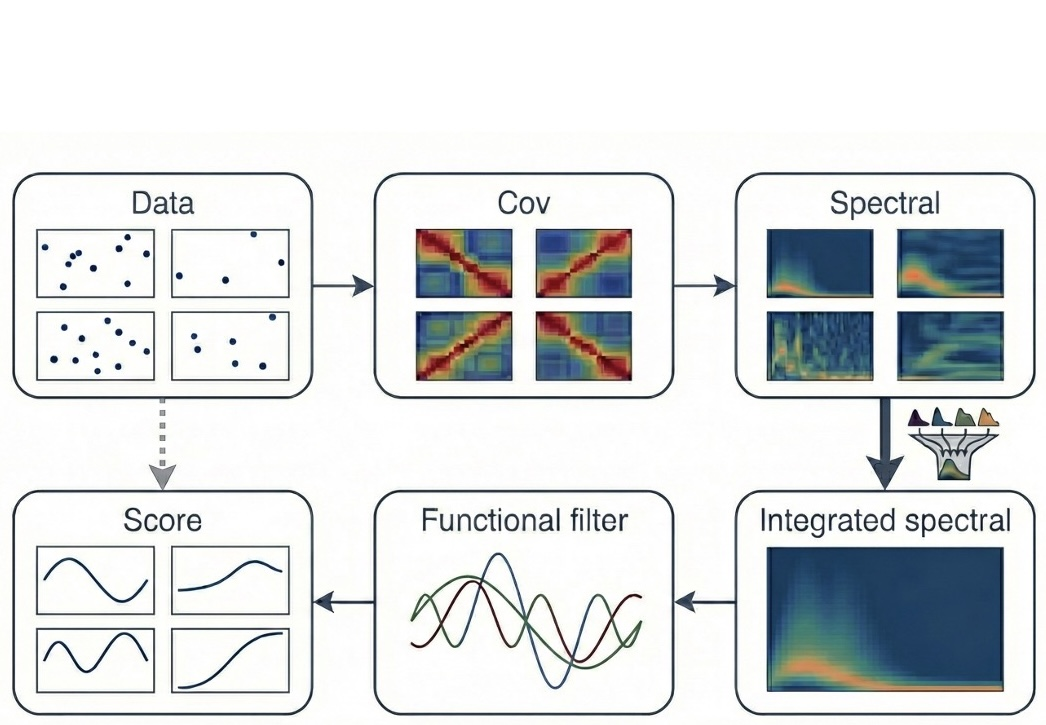
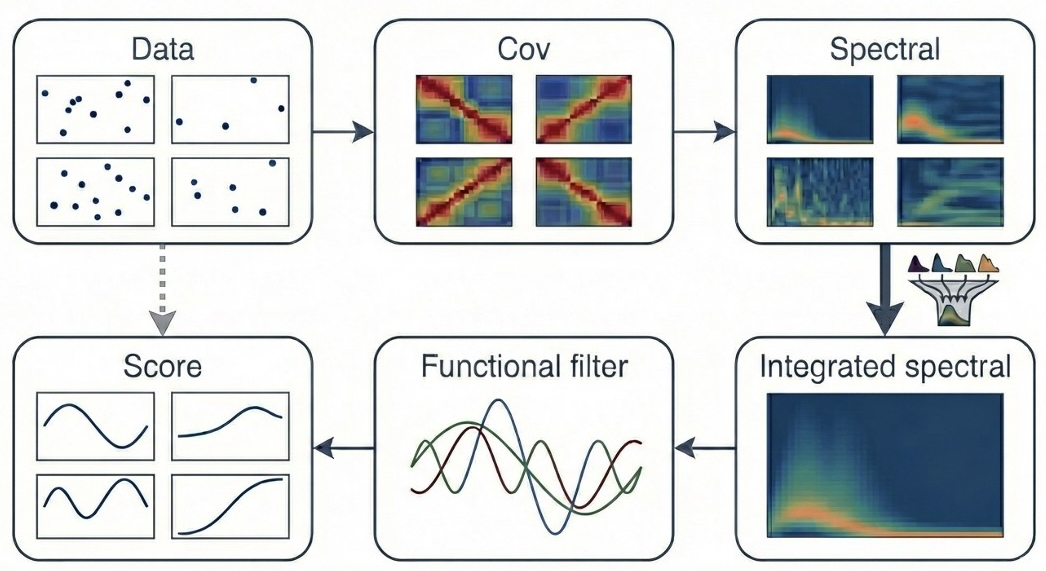
up

Changed region(s): [[0.0, 0.0298, 1.0, 1.0], [0.6424, 0.7741, 0.7036, 0.8634]]

diff --git a/_includes/publications.md b/_includes/publications.md
@@ -38,7 +38,7 @@
   <div class="pub-row">
     <div class="col-sm-3 abbr" style="position: relative;padding-right: 15px;padding-left: 15px;max-width: 150px;max-height: 150px">
       <abbr class="badge">Preprint</abbr>
-      <img src="assets/img/CFM.png" style="width: auto; height: auto">
+      <img src="assets/img/CFM.png?v=20261017-1" style="width: auto; height: auto">
     </div>
     <div class="col-sm-9" style="position: relative;padding-right: 15px;padding-left: 20px;">
       <div class="title">
@@ -59,7 +59,7 @@
   <div class="pub-row">
     <div class="col-sm-3 abbr" style="position: relative;padding-right: 15px;padding-left: 15px;max-width: 150px;max-height: 150px">
       <abbr class="badge">Preprint</abbr>
-      <img src="assets/img/PFM.jpg" style="width: auto; height: auto">
+      <img src="assets/img/PFM.jpg?v=20261017-1" style="width: auto; height: auto">
     </div>
     <div class="col-sm-9" style="position: relative;padding-right: 15px;padding-left: 20px;">
       <div class="title">
@@ -81,7 +81,7 @@
 <div class="pub-row">
    <div class="col-sm-3 abbr" style="position: relative;padding-right: 15px;padding-left: 15px;max-width: 150px;max-height: 150px">
     <abbr class="badge">  Preprint </abbr>
-    <img src="assets/img/UFPCA.jpg" style="width: auto; height: auto">
+    <img src="assets/img/UFPCA.jpg?v=20261017-1" style="width: auto; height: auto">
   </div>
   <div class="col-sm-9" style="position: relative;padding-right: 15px;padding-left: 20px;">
     <div class="title"><a href="https://arxiv.org/abs/2408.02343">Dependence-Adaptive Modelling for Functional Time Series</a></div>
@@ -101,7 +101,7 @@
 <div class="pub-row">
    <div class="col-sm-3 abbr" style="position: relative;padding-right: 15px;padding-left: 15px;max-width: 150px;max-height: 150px">
     <abbr class="badge"> Biostatistics </abbr>
-    <img src="assets/img/association.jpg" style="width: auto; height: auto">
+    <img src="assets/img/association.jpg?v=20261017-1" style="width: auto; height: auto">
   </div>
   <div class="col-sm-9" style="position: relative;padding-right: 15px;padding-left: 20px;">
     <div class="title"><a href="https://arxiv.org/abs/2601.13405"> Associating High-Dimensional Longitudinal Datasets through an Efficient Cross-Covariance Decomposition </a></div>
@@ -124,7 +124,7 @@
   <div class="pub-row">
     <div class="col-sm-3 abbr" style="position: relative;padding-right: 15px;padding-left: 15px;max-width: 150px;max-height: 150px">
       <abbr class="badge">AOS</abbr>
-      <img src="assets/img/SMO.jpg" style="width: auto; height: auto">
+      <img src="assets/img/SMO.jpg?v=20261017-1" style="width: auto; height: auto">
     </div>
     <div class="col-sm-9" style="position: relative;padding-right: 15px;padding-left: 20px;">
       <div class="title">
@@ -149,7 +149,7 @@
 <div class="pub-row">
    <div class="col-sm-3 abbr" style="position: relative;padding-right: 15px;padding-left: 15px;max-width: 150px;max-height: 150px">
     <abbr class="badge"> JASA </abbr>
-    <img src="assets/img/fsvd.jpg" style="width: auto; height: auto">
+    <img src="assets/img/fsvd.jpg?v=20261017-1" style="width: auto; height: auto">
   </div>
   <div class="col-sm-9" style="position: relative;padding-right: 15px;padding-left: 20px;">
     <div class="title"><a href="https://doi.org/10.1080/01621459.2026.2625441"> Functional-SVD for Heterogeneous Trajectories: Case Studies in Health </a></div>
@@ -170,7 +170,7 @@
 <div class="pub-row">
    <div class="col-sm-3 abbr" style="position: relative;padding-right: 15px;padding-left: 15px;max-width: 150px;max-height: 150px">
     <abbr class="badge">  SII </abbr>
-    <img src="assets/img/dynamic.jpg" style="width: auto; height: auto">
+    <img src="assets/img/dynamic.jpg?v=20261017-1" style="width: auto; height: auto">
   </div>
   <div class="col-sm-9" style="position: relative;padding-right: 15px;padding-left: 20px;">
     <div class="title"><a href="https://dx.doi.org/10.4310/SII.261008005403">Sparse Equation Matching: a Derivative-Free Learning for General-Order Dynamical Systems</a></div>
@@ -187,7 +187,7 @@
 <div class="pub-row">
    <div class="col-sm-3 abbr" style="position: relative;padding-right: 15px;padding-left: 15px;max-width: 150px;max-height: 150px">
     <abbr class="badge"> STAT  </abbr>
-    <img src="assets/img/functional_filter.jpg" style="width: auto; height: auto">
+    <img src="assets/img/functional_filter.jpg?v=20261017-1" style="width: auto; height: auto">
   </div>
   <div class="col-sm-9" style="position: relative;padding-right: 15px;padding-left: 20px;">
     <div class="title"><a href="https://doi.org/10.1002/sta4.70140">A Frequency-Domain Approach for Integrating Multiple Functional Time Series</a></div>
@@ -206,7 +206,7 @@
 <div class="pub-row">
    <div class="col-sm-3 abbr" style="position: relative;padding-right: 15px;padding-left: 15px;max-width: 150px;max-height: 150px">
     <abbr class="badge">  JBI </abbr>
-    <img src="assets/img/MACCOM.jpg" style="width: auto; height: auto">
+    <img src="assets/img/MACCOM.jpg?v=20261017-1" style="width: auto; height: auto">
   </div>
   <div class="col-sm-9" style="position: relative;padding-right: 15px;padding-left: 20px;">
     <div class="title"><a href="https://doi.org/10.1016/j.jbi.2025.104933">Integrated Analysis for Electronic Health Records with Structured and Sporadic Missingness</a></div>
